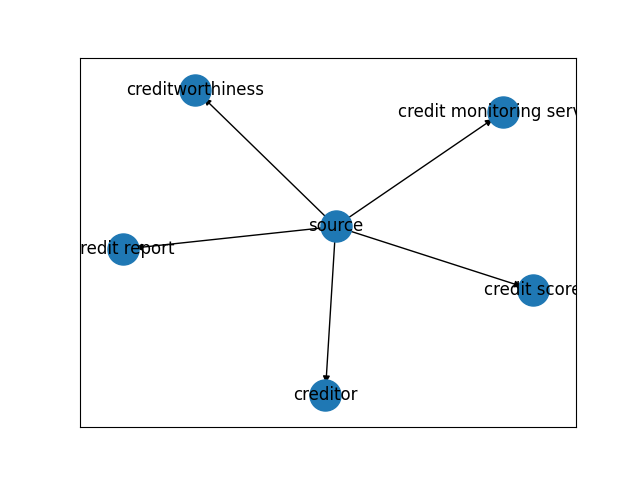
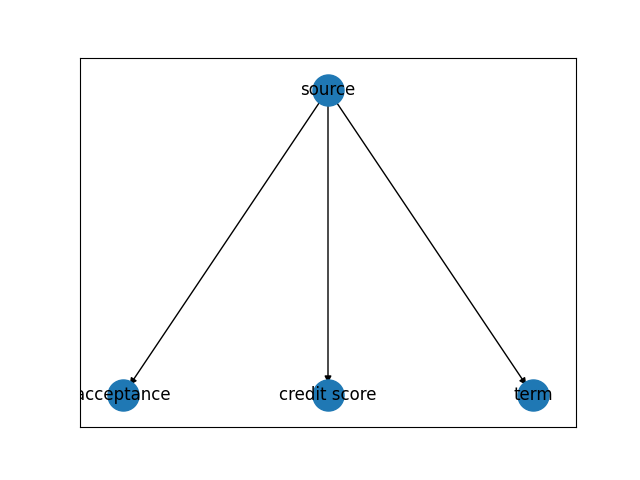
edited ner tree to be some sort of list

diff --git a/static/index.css b/static/index.css
@@ -223,18 +223,6 @@ h2 {
   background-color: #ff0404;
 }
 /* TEXT SUMMARIZATION BOX */
-.textsummary {
-  padding-left: 10%;
-  padding-right: 10%;
-  font-family: "Courier New", Courier, monospace;
-  text-align: left;
-  pointer-events: all;
-  width: 750px;
-  height: 450px;
-  background-color: #f7f9ff;
-  /* border: solid; */
-}
-
 .textsummary-outer {
   position: relative;
   display: flex;
@@ -245,6 +233,58 @@ h2 {
   background-color: #f7f9ff;
   padding-left: 0.2em;
   padding-right: 0.2em;
+}
+
+.textsummary {
+  float: left;
+  width: 500px;
+  height: 450px;
+
+  padding: 25px;
+
+  text-align: left;
+  font-size: 16;
+  font-family: "Work Ans", sans-serif;
+  font-weight: 600;
+  line-height: 1.4;
+  letter-spacing: 1.2;
+  color: #000358;
+
+  pointer-events: all;
+
+  border: solid;
+  border-color: #bbc8dd;
+  border-width: 2px;
+  border-radius: 15px;
+  margin: 20px top, 20px right, 20px left, 10px bottom;
+  background-color: white;
+}
+
+.ner_tree {
+  padding: 25px;
+
+  pointer-events: all;
+
+  float: left;
+  text-align: left;
+  font-size: 16;
+  font-family: "Work Ans", sans-serif;
+  font-weight: 600;
+  line-height: 1.4;
+  letter-spacing: 1.2;
+  color: #000358;
+
+  width: 500px;
+  height: 450px;
+
+  border: solid;
+  border-color: #bbc8dd;
+  border-width: 2px;
+  border-radius: 15px;
+  margin: 20px top, 20px right, 20px left, 20px bottom;
+  background-color: white;
+
+  overflow: auto;
 }
 /* SHARING AND SAVING */
 .sharing_buttons {
@@ -394,8 +434,8 @@ input[type="number"] {
 div#loading {
   background-color: #f7f9ff;
   text-align: center;
-  width: 700px;
-  height: 240px;
+  /* width: 700px;
+  height: 240px; */
 }
 
 .outer {
@@ -417,16 +457,26 @@ div#loading {
 .tooltip .tooltiptext {
   visibility: hidden;
   width: 350px;
-  background-color: #bdccff;
-  color: #fff;
-  text-align: center;
-  border-radius: 6px;
   padding: 5px 0;
+  margin-left: -60px;
   position: absolute;
   z-index: 1;
   top: 150%;
   left: 50%;
-  margin-left: -60px;
+
+  background-color: #98b6f0;
+  border-color: #679ef8;
+  border-width: 2px;
+  border-radius: 10px;
+
+  color: #000358;
+  text-align: center;
+  font-size: 15;
+  font-family: "Work Sans", sans-serif;
+  line-height: 1.7;
+  letter-spacing: 1.2;
+  font-weight: 600;
+  /* margin: 5px 5px 5px; */
 
   /* Fade in tooltip - takes 1 second to go from 0% to 100% opac: */
   opacity: 0;
@@ -436,4 +486,30 @@ div#loading {
 .tooltip:hover .tooltiptext {
   visibility: visible;
   opacity: 1;
+}
+
+.entity {
+  font-size: 18px;
+  font: "work sans";
+  font-weight: 800;
+  line-height: 2;
+  letter-spacing: 1;
+  color: #000358;
+  margin: 20px top, 15px left;
+  background-color: white;
+}
+.meaning {
+  background-color: #f6f9ff;
+  font-size: 14px;
+  font: "work sans";
+  line-height: 1.8;
+  letter-spacing: 1.2;
+  color: #000358;
+
+  border: solid;
+  border-radius: 15px;
+  border-color: #505175;
+  border-width: 2px;
+
+  padding: 2%;
 }

diff --git a/static/index.js b/static/index.js
@@ -66,6 +66,8 @@ window.smoothScroll = function (target) {
   scroll(scrollContainer, scrollContainer.scrollTop, targetY, 0);
 }
 
+
+// LOAD GRAPH PICTURE
 $(document).ready(function () {
   $('.create_graph').on('click', function () {
     summary = document.getElementById('bart_summary').innerHTML;
@@ -78,7 +80,14 @@ $(document).ready(function () {
       type: 'GET',
       data: { summary: summary },
       success: function (data) {
-        window.open("http://127.0.0.1:8887/temp_graph.png", 'entity tree', "height=640,width=480");
+        // $("#ner_data").html(data);
+        document.getElementById("ner_data").innerHTML = '<div>' + data + '</div>';
+        // window.open("http://127.0.0.1:8887/temp_graph.png", 'entity tree', "height=480,width=640");
+
+        graph_pic = document.getElementById('ner_tree_pic');
+        graph_pic.style = "";
+        graph_pic.src = "http://127.0.0.1:8887/temp_graph.png";
+
       }
     })
   });
@@ -98,17 +107,23 @@ function findEntities() {
     summarize = document.getElementById('Summary').innerHTML;
     flag = true;
   }
+  var ner_table = "<b>Summarization</b>";
 
   json_dict = JSON.parse(json_dict);
   var res = summarize;
   for (index in json_dict) {
     if (summarize.includes(index) === true) {
+
+      // ner_table += '<br>   ·' + '<div class="tooltip"><b>' + index + '</b><span class="tooltiptext">' + json_dict[index] + '</span></div >';
+      ner_table += '<br><div class="entity">' + ' ·' + index + '</div> <div class="meaning">' + json_dict[index] + '</div>';
       res = res.replace(index, '<div class="tooltip"><b>' + index + '</b><span class="tooltiptext">' + json_dict[index] + '</span></div >');
     }
   }
   if (flag === true)
     document.getElementById('Summary').innerHTML = res;
   else document.getElementById('bart_summary').innerHTML = res;
+
+  document.getElementById("ner_data").innerHTML = ner_table;
 }
 
 

diff --git a/templates/index.html b/templates/index.html
@@ -81,24 +81,26 @@
         </div>
     </form>
     <br>
-    <div class=" textsummary-outer">
+    <div class="textsummary-outer">
         <!-- SUMMARIZATION TEXT BOX -->
         <div id="textsummary" data-name="textsummary" alt="textsummary" class="textsummary">
-            <div name='summary'>
+            <p id="Summary"></p>
+            <p id="bart_summary">{{summary}} </p>
+            <p id="dictionary" style="visibility: none; display:none;"> {{dictionary}} </p>
+            <p id='filename' style="opacity: 0;">{{name}}</p>
+            <p id="nofile">{{error}}</p>
+
+            <div id="loading" style="display:none;">
+                <img src="../static/assets/images/loading.gif" alt="" />
                 <br>
-                <br>
-                <p id="Summary"></p>
-                <p id="bart_summary">{{summary}} </p>
-                <p id="dictionary" style="visibility: none; display:none;"> {{dictionary}} </p>
-                <p id='filename' style="opacity: 0;">{{name}}</p>
-                <p id="nofile">{{error}}</p>
-                <!-- <p>{{ content }}</p> -->
-                <div id="loading" style="display:none;">
-                    <img src="../static/assets/images/loading.gif" alt="" />
-                    <br>
-                    <p>Summarization in process...</p>
-                </div>
+                <p>Summarization in process...</p>
             </div>
+            <!-- </div> -->
+        </div>
+
+        <div class="ner_tree">
+            <img src="" id="ner_tree_pic" style="display:none;" alt="Girl in a jacket">
+            <div id="ner_data"></div>
         </div>
     </div>
 

diff --git a/templates/entity_tree.html b/templates/entity_tree.html
@@ -1,0 +1,3 @@
+<div id="value_lable">
+    <p>{{ner_data}}</p>
+</div>

diff --git a/named_entity_recognition/ner_tree.py b/named_entity_recognition/ner_tree.py
@@ -76,19 +76,27 @@ def hierarchy_pos(G, root=None, width=1., vert_gap=0.2, vert_loc=0, xcenter=0.5)
 
 
 def create_entity_tree(summary):
+
     print("creating entity tree")
     dictionary = json.loads(turn_into_dictionary())
     # plt.figure(figsize=(18, 15))
+
     mylist = []
     G = nx.DiGraph()
     G.add_node("source")
+
+    tree_table = "summarization"
+
     for index in dictionary:
         if index in summary:
             G.add_node(index)
             G.add_edge("source", index)
             mylist.append(index)
-            print("added "+index + " to list")
+
     mylist = list(dict.fromkeys(mylist))  # no duplicates
+
+    for unique in mylist:
+        tree_table += "\n   ·"+unique
 
     # while mylist:
     #     print("in while loop")
@@ -105,12 +113,14 @@ def create_entity_tree(summary):
     #         mylist.remove(node)
     print("finishing tree")
     plt.switch_backend('agg')
-    pos = nx.spring_layout(G)
-    # pos = hierarchy_pos(G, "source")
+    # pos = nx.spring_layout(G)
+    pos = hierarchy_pos(G, "source")
     nx.draw_networkx_nodes(G, pos, node_size=500)
     nx.draw_networkx_edges(G, pos, edgelist=G.edges(), edge_color='black')
     nx.draw_networkx_labels(G, pos)
     plt.savefig("temp_graph.png", format="PNG")
+    print(tree_table)
+    return tree_table
 
 
 if __name__ == '__main__':

diff --git a/application.py b/application.py
@@ -68,8 +68,8 @@ def entity_tree():
     if request.method == 'POST':
         pass
     else:
-        create_entity_tree(session.get('my_var', None))
-        return jsonify({'result': 'success'})
+        ner_data = create_entity_tree(session.get('my_var', None))
+        return render_template('entity_tree.html', ner_data=ner_data)
 
 
 # need to be erased
